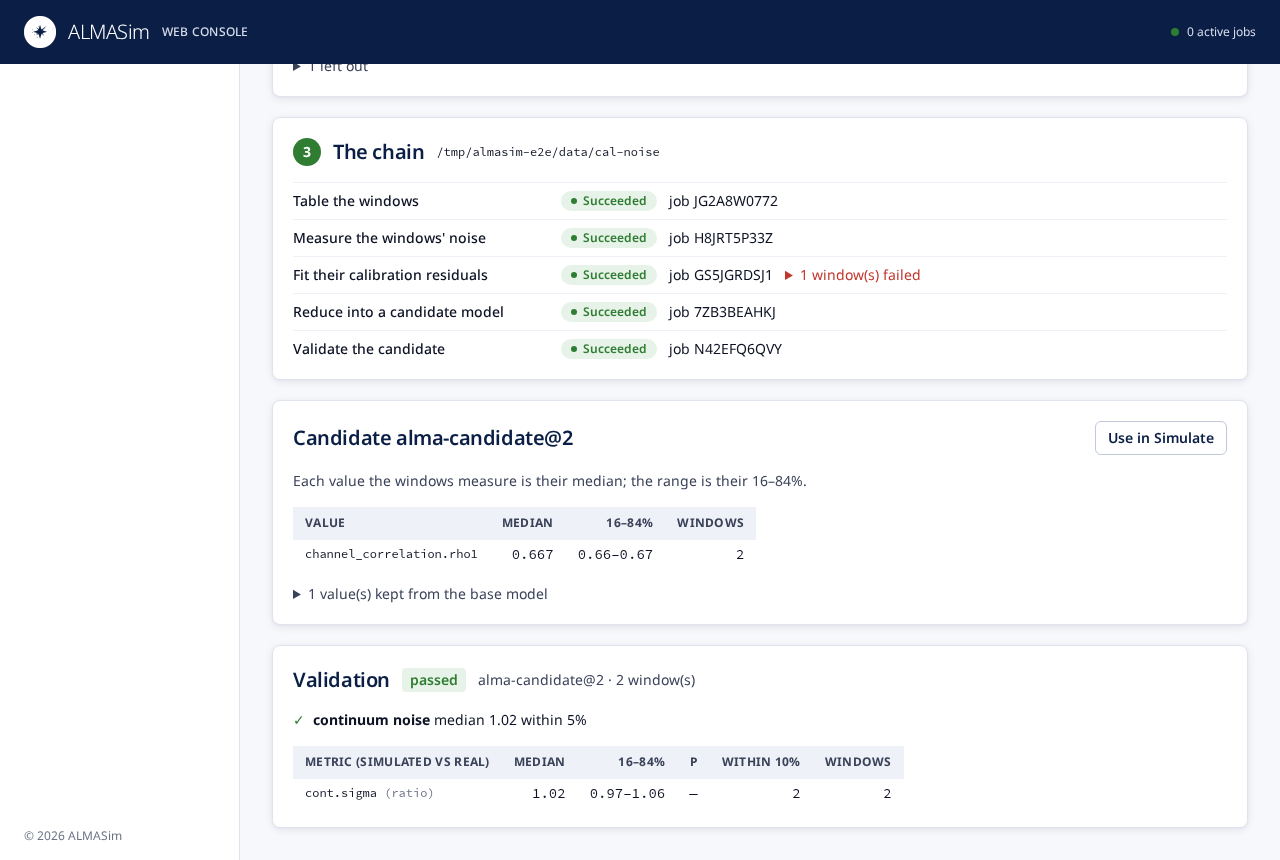
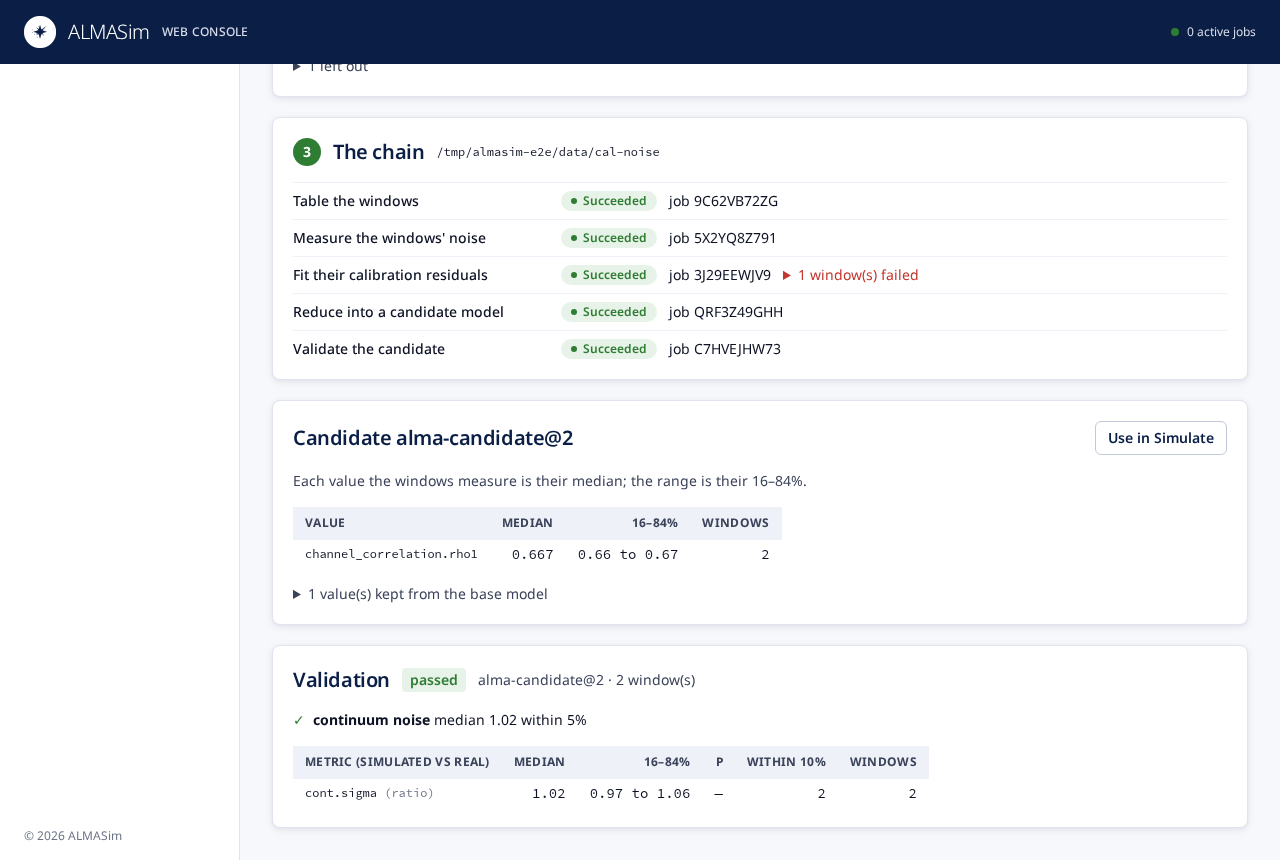
MADIV-28: the Noise models page says when no value had enough windows
A live chain on two 7 m windows kept every value of alma (3 windows needed
per value): the page showed an empty table. Ranges read 'a to b', which
stays readable when the ends are negative.

diff --git a/frontend/src/routes/noise/+page.svelte b/frontend/src/routes/noise/+page.svelte
@@ -513,10 +513,16 @@
 						<!-- eslint-enable svelte/no-navigation-without-resolve -->
 					{/if}
 				</div>
-				<p class="m-0 text-sm text-fg-muted">
-					Each value the windows measure is their median; the range is their 16–84%.
-				</p>
-				<div class="overflow-x-auto">
+				{#if candidate.values.length}
+					<p class="m-0 text-sm text-fg-muted">
+						Each value the windows measure is their median; the range is their 16–84%.
+					</p>
+				{:else}
+					<p class="m-0 text-sm text-warn">
+						No value had enough windows ({MIN_WINDOWS} needed): the candidate is the base model.
+					</p>
+				{/if}
+				<div class="overflow-x-auto" class:hidden={!candidate.values.length}>
 					<table class="text-sm">
 						<thead>
 							<tr class="text-left text-xs font-semibold tracking-wide text-fg-muted uppercase">
@@ -531,7 +537,7 @@
 								<tr class="border-t border-sunk">
 									<td class="px-3 py-1 font-mono text-xs">{v.key}</td>
 									<td class="px-3 py-1 text-right font-mono">{sig(v.median)}</td>
-									<td class="px-3 py-1 text-right font-mono">{sig(v.q16)}–{sig(v.q84)}</td>
+									<td class="px-3 py-1 text-right font-mono">{sig(v.q16)} to {sig(v.q84)}</td>
 									<td class="px-3 py-1 text-right font-mono">{v.n}</td>
 								</tr>
 							{/each}
@@ -591,7 +597,7 @@
 										>{m.metric} <span class="text-fg-dim">({m.kind})</span></td
 									>
 									<td class="px-3 py-1 text-right font-mono">{sig(m.median)}</td>
-									<td class="px-3 py-1 text-right font-mono">{sig(m.q16)}–{sig(m.q84)}</td>
+									<td class="px-3 py-1 text-right font-mono">{sig(m.q16)} to {sig(m.q84)}</td>
 									<td class="px-3 py-1 text-right font-mono">{sig(m.p, 2)}</td>
 									<td class="px-3 py-1 text-right font-mono">{m.within10 ?? '—'}</td>
 									<td class="px-3 py-1 text-right font-mono">{m.n}</td>
